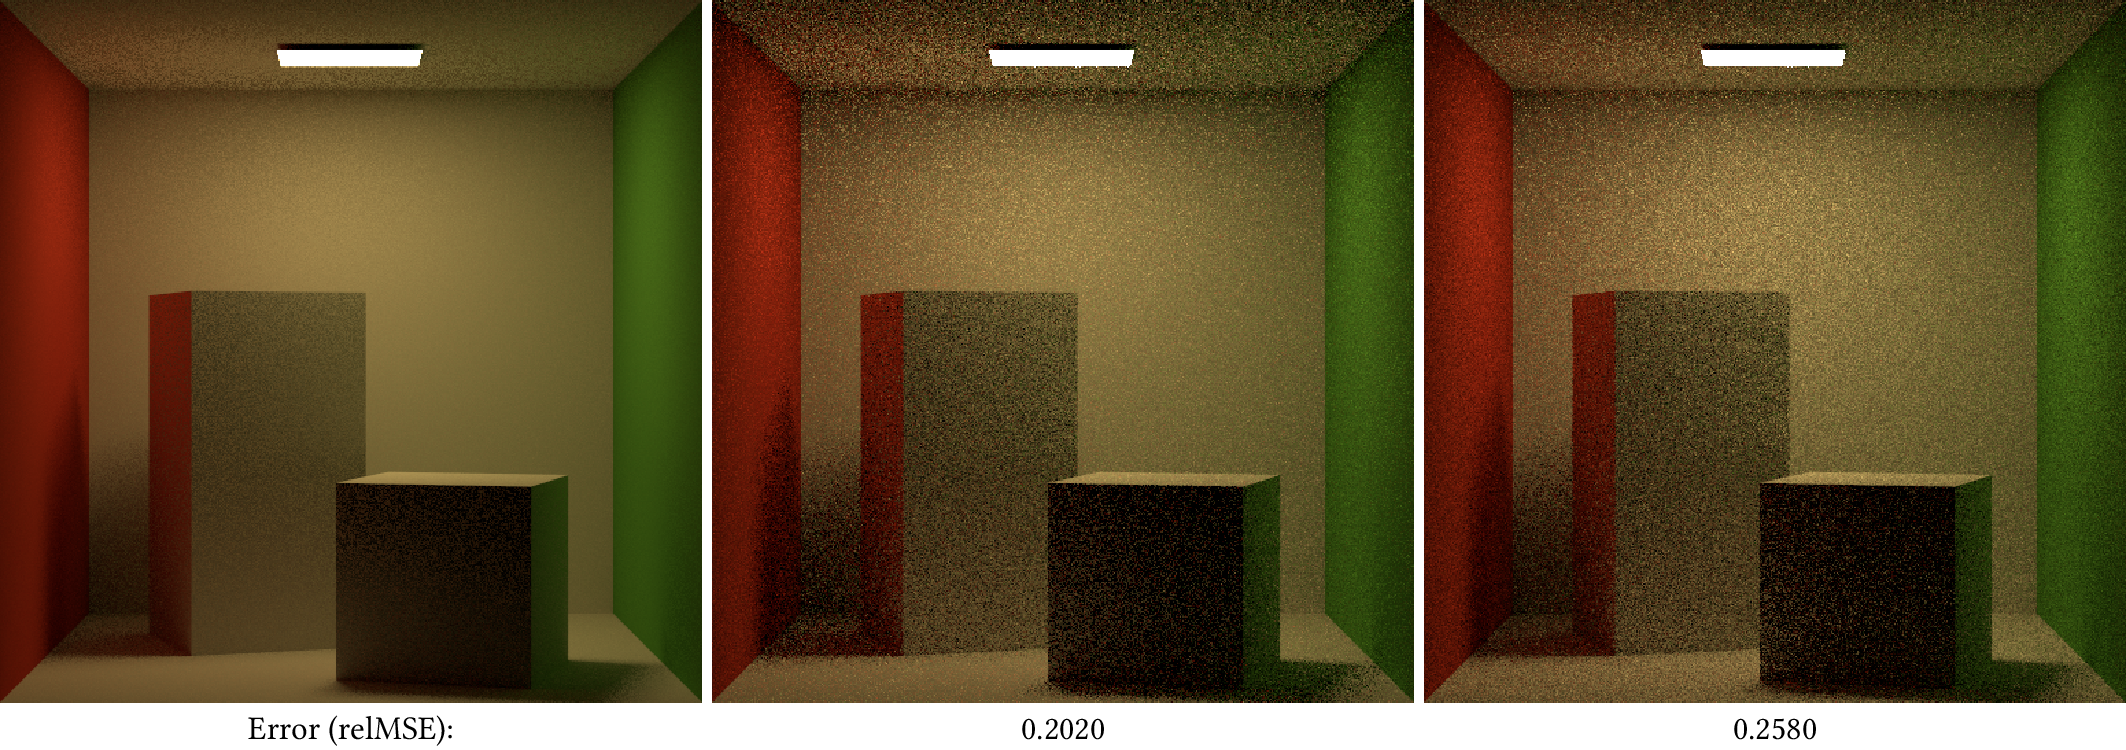
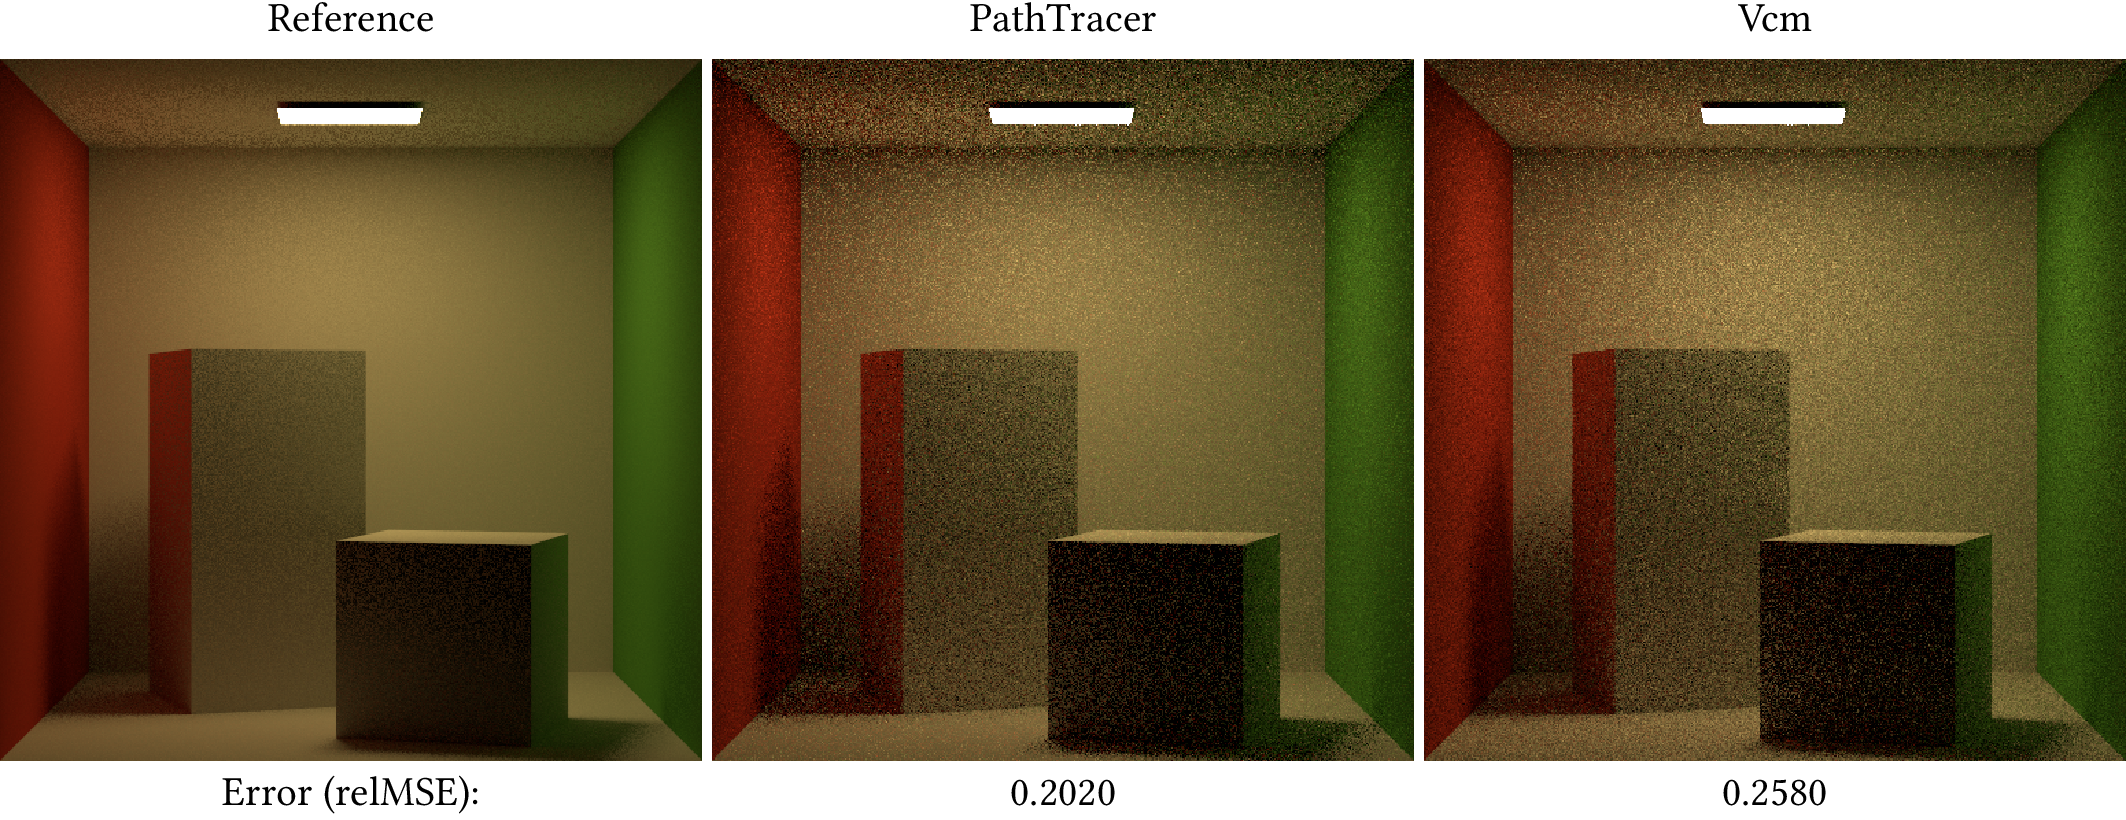
support arbitrary output format

diff --git a/SeeSharp/Image/FrameBuffer.cs b/SeeSharp/Image/FrameBuffer.cs
@@ -1,6 +1,7 @@
 using SimpleImageIO;
 using System;
 using System.Collections.Generic;
+using System.IO;
 using System.Linq;
 
 namespace SeeSharp.Image {
@@ -42,11 +43,13 @@ namespace SeeSharp.Image {
 
         public string Basename {
             get {
-                string dir = System.IO.Path.GetDirectoryName(filename);
-                string fileBase = System.IO.Path.GetFileNameWithoutExtension(filename);
-                return System.IO.Path.Combine(dir, fileBase);
+                string dir = Path.GetDirectoryName(filename);
+                string fileBase = Path.GetFileNameWithoutExtension(filename);
+                return Path.Combine(dir, fileBase);
             }
         }
+
+        public string Extension => Path.GetExtension(filename);
 
         [Flags]
         public enum Flags {
@@ -104,7 +107,7 @@ namespace SeeSharp.Image {
 
             if (flags.HasFlag(Flags.WriteIntermediate)) {
                 string name = Basename + "-iter" + CurIteration.ToString("D3")
-                    + $"-{stopwatch.ElapsedMilliseconds}ms" + ".exr";
+                    + $"-{stopwatch.ElapsedMilliseconds}ms" + Extension;
                 WriteToFile(name);
             }
 
@@ -122,11 +125,26 @@ namespace SeeSharp.Image {
 
         public void WriteToFile(string fname = null) {
             if (fname == null) fname = filename;
-            ImageBase.WriteLayeredExr(fname,
-                layers.Select(kv => (kv.Key, kv.Value.Image))
-                      .Append(("default", Image))
-                      .ToArray()
-            );
+
+            if (Path.GetExtension(fname).ToLower() == ".exr") {
+                ImageBase.WriteLayeredExr(fname,
+                    layers.Select(kv => (kv.Key, kv.Value.Image))
+                        .Append(("default", Image))
+                        .ToArray()
+                );
+            } else {
+                // write all layers into individual files
+                Image.WriteToFile(fname);
+
+                string dir = Path.GetDirectoryName(fname);
+                string fileBase = Path.GetFileNameWithoutExtension(fname);
+                string basename = Path.Combine(dir, fileBase);
+
+                string ext = Path.GetExtension(fname);
+                foreach (var (name, layer) in layers) {
+                    layer.Image.WriteToFile(basename + "-" + name + ext);
+                }
+            }
         }
 
         Flags flags;

diff --git a/SeeSharp/Experiments/ExperimentConductor.cs b/SeeSharp/Experiments/ExperimentConductor.cs
@@ -1,5 +1,4 @@
-using SeeSharp;
-using SeeSharp.Integrators;
+using SeeSharp.Integrators;
 using SeeSharp.Image;
 using System;
 using System.IO;
@@ -21,13 +20,14 @@ namespace SeeSharp.Experiments {
         /// Each method's images are placed in a separate folder, using the method's name
         /// as the folder's name.
         /// </summary>
-        public void Run(bool forceReference = false) {
+        public void Run(bool forceReference = false, string format = ".exr") {
             var scene = factory.MakeScene();
 
             // Render the reference image (only if it does not exist or forced)
-            scene.FrameBuffer = new FrameBuffer(width, height, Path.Join(workingDirectory, "reference.exr"));
+            string refFilename = Path.Join(workingDirectory, "Reference" + format);
+            scene.FrameBuffer = new FrameBuffer(width, height, refFilename);
             scene.Prepare();
-            RenderReference(scene, forceReference);
+            RenderReference(scene, forceReference, refFilename);
 
             var methods = factory.MakeMethods();
             foreach (var method in methods) {
@@ -37,20 +37,19 @@ namespace SeeSharp.Experiments {
                 if (Directory.Exists(path)) {
                     var dirinfo = new System.IO.DirectoryInfo(path);
                     foreach (var file in dirinfo.GetFiles()) {
-                        if (file.Extension == ".exr")
+                        if (file.Extension == format)
                             file.Delete();
                     }
                 }
 
                 // Render
                 Console.WriteLine($"Starting {method.name}...");
-                var timeSeconds = Render(path, "render.exr", method.integrator, scene);
+                var timeSeconds = Render(path, "Render" + format, method.integrator, scene);
                 Console.WriteLine($"{method.name} done after {timeSeconds} seconds");
             }
         }
 
-        private void RenderReference(Scene scene, bool force) {
-            string filepath = Path.Join(workingDirectory, "reference.exr");
+        private void RenderReference(Scene scene, bool force, string filepath) {
             bool exists = File.Exists(filepath);
             if (!exists || force) {
                 var integrator = factory.MakeReferenceIntegrator();

diff --git a/SeeSharp.Examples/MakeFigure.py b/SeeSharp.Examples/MakeFigure.py
@@ -1,0 +1,35 @@
+import figuregen
+from figuregen import util
+import simpleimageio as sio
+import sys, os
+
+def tonemap(img):
+    return figuregen.PNG(util.image.lin_to_srgb(img))
+
+def make_figure(dirname, method_names):
+    # Read the files
+    ref = sio.read(os.path.join(dirname, "Reference.exr"))
+    methods = [
+        sio.read(os.path.join(dirname, name, "Render.exr"))
+        for name in method_names
+    ]
+    errors = [ f"{util.image.relative_mse(m, ref):.4f}" for m in methods ]
+
+    # Put side by side and write error values underneath
+    grid = figuregen.Grid(1, len(method_names) + 1)
+    grid.get_element(0, 0).set_image(tonemap(ref)).set_caption("Error (relMSE):")
+    for i in range(len(methods)):
+        grid.get_element(0, i + 1).set_image(tonemap(methods[i])).set_caption(errors[i])
+    grid.set_col_titles("top", ["Reference"] + method_names)
+
+    grid.get_layout().set_col_titles("top", 4, offset_mm=1, fontsize=10)
+    grid.get_layout().set_caption(4, offset_mm=1, fontsize=10)
+
+    figuregen.horizontal_figure([grid], 18, os.path.join(dirname, "Overview.pdf"))
+
+if __name__ == "__main__":
+    result_dir = sys.argv[1]
+    method_names = []
+    for i in range(2, len(sys.argv)):
+        method_names.append(sys.argv[i])
+    make_figure(result_dir, method_names)

diff --git a/SeeSharp.Examples/Program.cs b/SeeSharp.Examples/Program.cs
@@ -1,0 +1,25 @@
+using SeeSharp.Experiments;
+using System.Collections.Generic;
+using System.Diagnostics;
+
+namespace SeeSharp.Examples {
+    class Program {
+        static void Main(string[] args) {
+            // The Benchmark class can be used to run multiple experiments,
+            // for example to render different test scenes or different configurations.
+            Benchmark bench = new(new Dictionary<string, ExperimentFactory>() {
+                { "PathVsVcm", new PathVsVcm() },
+            }, 512, 512) { DirectoryName = "Results" };
+            bench.Run(format: ".exr");
+
+            // Optional, but usually a good idea: assemble the rendering results in an overview
+            // figure using a Python script.
+            Process.Start("python", "./SeeSharp.Examples/MakeFigure.py Results/PathVsVcm PathTracer Vcm")
+                .WaitForExit();
+
+            // For our README file, we further convert the pdf to png with ImageMagick
+            Process.Start("magick", "-density 300 ./Results/PathVsVcm/Overview.pdf ExampleFigure.png")
+                .WaitForExit();
+        }
+    }
+}

diff --git a/SeeSharp.Examples/PathVsVcm.cs b/SeeSharp.Examples/PathVsVcm.cs
@@ -1,0 +1,23 @@
+using SeeSharp.Experiments;
+using SeeSharp.Integrators;
+using SeeSharp.Integrators.Bidir;
+using System.Collections.Generic;
+
+namespace SeeSharp.Examples {
+    /// <summary>
+    /// Configures the experiment we want to run: test scene, maximum depth,
+    /// best reference integrator, which methods to compare.
+    /// </summary>
+    class PathVsVcm : ExperimentFactory {
+        // Specify the scene and how to render references
+        public override Scene MakeScene() => Scene.LoadFromFile("Data/Scenes/cbox.json");
+        public override Integrator MakeReferenceIntegrator()
+        => new PathTracer { MaxDepth = 5, TotalSpp = 128 };
+
+        // Specify the methods (named integrators) to compare
+        public override List<Method> MakeMethods() => new() {
+            new("PathTracer", new PathTracer() { MaxDepth = 5, TotalSpp = 4 }),
+            new("Vcm", new VertexConnectionAndMerging() { MaxDepth = 5, NumIterations = 2 })
+        };
+    }
+}

diff --git a/SeeSharp/Experiments/Benchmark.cs b/SeeSharp/Experiments/Benchmark.cs
@@ -12,14 +12,14 @@ namespace SeeSharp.Experiments {
             this.imageHeight = imageHeight;
         }
 
-        public void Run(List<string> sceneFilter = null, bool forceReference = false) {
+        public void Run(List<string> sceneFilter = null, bool forceReference = false, string format = ".exr") {
             foreach (var experiment in Experiments) {
                 if (sceneFilter != null && !sceneFilter.Contains(experiment.Key))
                     continue;
 
                 var conductor = new ExperimentConductor(experiment.Value,
                     Path.Join(DirectoryName, experiment.Key), imageWidth, imageHeight);
-                conductor.Run(forceReference);
+                conductor.Run(forceReference, format);
             }
         }
 

diff --git a/SeeSharp/Integrators/PathTracer.cs b/SeeSharp/Integrators/PathTracer.cs
@@ -17,7 +17,7 @@ namespace SeeSharp.Integrators {
         public uint MinDepth = 1;
         public int NumShadowRays = 1;
         public bool EnableBsdfDI = true;
-        public bool RenderTechniquePyramid = true;
+        public bool RenderTechniquePyramid = false;
 
         TechPyramid techPyramidRaw;
         TechPyramid techPyramidWeighted;

diff --git a/README.md b/README.md
@@ -181,9 +181,9 @@ def tonemap(img):
 
 def make_figure(dirname, method_names):
     # Read the files
-    ref = pyexr.read(os.path.join(dirname, "reference.exr"))
+    ref = pyexr.read(os.path.join(dirname, "Reference.exr"))
     methods = [
-        pyexr.read(os.path.join(dirname, name, "render.exr"))
+        pyexr.read(os.path.join(dirname, name, "Render.exr"))
         for name in method_names
     ]
     errors = [ f"{util.image.relative_mse(m, ref):.4f}" for m in methods ]
